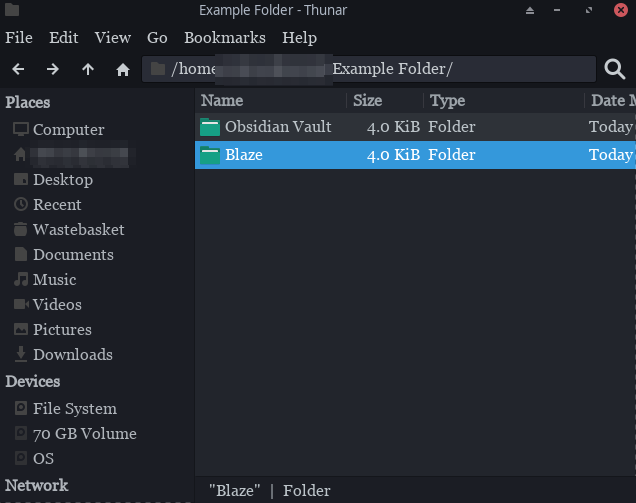
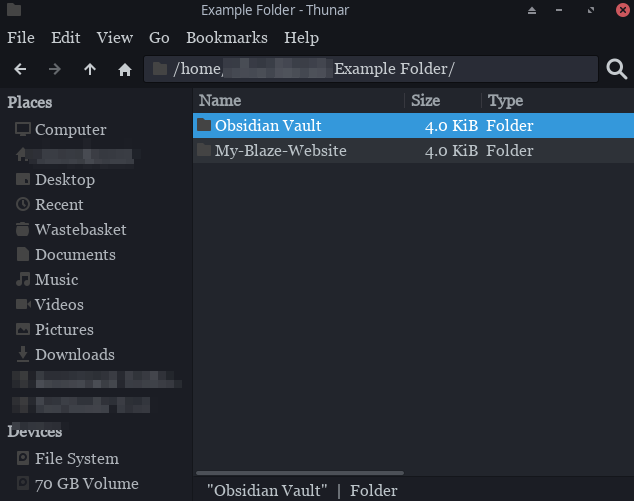
hi fred

diff --git a/blaze/themes/default/css/main.css b/blaze/themes/default/css/main.css
@@ -21,7 +21,7 @@ pre {
   overflow-x: scroll;
   background-color: var(--lightbackground) !important; 
   border-radius: 10px;
-  padding: 10px;
+  padding: 3px;
   overflow-x: scroll;
   max-width: 45vw;
 }

diff --git a/src/main.rs b/src/main.rs
@@ -4,7 +4,6 @@ use std::io::prelude::*;
 use std::path::Path;
 use std::collections::HashMap;
 use std::io::Write;
-
 use time::macros::date;
 use serde::Deserialize;
 use toml::Value;
@@ -12,8 +11,6 @@ use markdown::{to_html_with_options, Constructs};
 use regex::Regex;
 use toml;
 use std::fs::OpenOptions;
-
-
 
 #[derive(Deserialize, Debug)]
 struct Config {
@@ -161,6 +158,26 @@ fn format_path (path: &String) -> String {
     path
 }
 
+fn convert_links(input: &str) -> String {
+    let link_regex = Regex::new(r#"\[\[([^|\]]+)(?:\|([^]]+))?\]\]"#).unwrap();
+
+    let replaced = link_regex.replace_all(input, |caps: &regex::Captures| {
+        if let Some(url) = caps.get(1) {
+            if let Some(text) = caps.get(2) {
+                // Format: [[URL|text]] - convert to [text](URL)
+                format!("[{}]({})", text.as_str(), url.as_str())
+            } else {
+                // Format: [[URL]] - convert to [URL](URL)
+                format!("[{}]({})", url.as_str(), url.as_str())
+            }
+        } else {
+            // No match, return the original substring
+            caps.get(0).unwrap().as_str().to_string()
+        }
+    });
+
+    replaced.to_string()
+}
 
 fn compile_markdown (
     things: &Vec<FsThing>, cfg: &Config, theme: &String, 
@@ -206,6 +223,8 @@ fn compile_markdown (
                     //temporary solution, this replaces all instances of .md, not
                     //[something](somethingelse.md)
                     let mut content = content.clone().replace(".md)",")");
+                    content = convert_links(&content); // converts wikilinks to mdlinks
+
                     let old_content = &content.clone().replace(".md)",")");
 
                     let mut pathways: HashMap<String, String> = HashMap::new();

diff --git a/docs/setup/prerequisites.md b/docs/setup/prerequisites.md
@@ -5,23 +5,34 @@ description: What things you need to set up so that it plays nice with Blaze.
 
 Before you start using Blaze, you probably need to set up a few other things first.
 
-## Obsidian
-Configure your Obsidian vault settings as follows. The most important setting is absolute pathing and no wikilinks. [^1]
-![](../assets/obbysettings.png)
 ## Github
-1. Most importantly of all, you *need a Github account*.
-2. Once you have a Github account, you can go to the [Blaze github](https://github.com/EddieTheEd/Blaze) and click the `Code` and then clone it[^2], either through `HTTPS` or `SSH`. (It doesn't matter which.)
-![cloning](../cloning.png)
-3. Once it's downloaded, open your file explorer and find the repository's folder. It should like like this.[^3]
-![](../assets/foldering.png)
-4. Check that this is the right folder by opening it. It should look something like this.
-![](../assets/foldering2.png)
+1. Most importantly of all, you **need** a *Github account*. Here is mine. (totally)
+![](../assets/githublanding.png)
+2. Once you have a Github account, you can go to the [Blaze github](https://github.com/EddieTheEd/Blaze) and click the `Use this template` button. Then, select the `Create a new repository` option.
+![](../assets/usethistemplate.png)
+
+![](../assets/newrepo.png)
+
+
+3. Once you've done that, you should be looking at something like this. Fill out the fields as required. Note that private repositories mean that the source code can be accessed online, but this means *Github pages* (what Blaze uses to host the website) will **not** work. if you want to use a private repository, see [here](privaterepo.md).
+![|500](../assets/createnewrepo.png)
+
+4. Now you should be seeing the *Github repository* for your website. If you chose the `Public` option, anyone can access this URL. Now select the `Code` button and **clone** this new repository via `HTTPS` or `SSH`. [^1]
+
+5. Check that you have cloned it successfully by opening the repository folder. It should look something like this.
+![](../assets/foldering2-2.png)
+
 ## Adding content
+First, we should configure Obsidian[^2] , if you plan to use it.
+### Obsidian
+Configure your Obsidian vault settings as follows. The most important setting is absolute pathing and no wikilinks. [^3]
+![](../assets/obbysettings.png)
+
 ### I have an existing obsidian vault
-Say your files look something like this. (Your Obsidian vault doesn't literally have to be called `Obsidian Vault`)
-![](../assets/foldering2-1.png)
-All you need to do is simply move the `Obsidian Vault` folder into the `Blaze` folder. You can also delete the `docs` folder if you want, because that is for the [blaze.toomwn.xyz website](https://blaze.toomwn.xyz/).
-![](../assets/foldering%20number%20whatever.png)
+Say your files look something like this. (Your Obsidian vault doesn't literally have to be called `Obsidian Vault`)![](../assets/foldering2-1.png)
+
+All you need to do is simply move the `Obsidian Vault` folder into the repository folder. You can also delete the `docs` folder if you want, because that is for the [blaze.toomwn.xyz website](https://blaze.toomwn.xyz/).
+![](../assets/fldering.png)
 Next, you need to change the `blazeconfig.toml` file.
 Go to the `build` section and change the string of the `input` option to **the name of your Obsidian Vault**. In this example, I would have to change it to `'Obsidian Vault'.`
 
@@ -30,17 +41,16 @@ Go to the `build` section and change the string of the `input` option to **the n
 Now you're done! Open the new folder as a vault and your Obsidian stuff should be there.
 ### I want to make a new vault
 1. Go into the Blaze folder, as above.
-![foldering](../assets/foldering2.png)
+![](../assets/foldering2-2.png)
 2. Create a new folder, and name it to what you want your Obsidian vault to be called. For example, in the image below I have named mine `Obsidian Vault`.
-![foldering number whatever](../assets/foldering%20number%20whatever.png)
-3. Now open Obsidian[^4] and click the `Create` button, then navigate to the named folder inside the `Blaze` folder.
+![](../assets/fldering.png)
+3. Now open Obsidian and click the `Create` button, then navigate to the named folder inside the `Blaze` folder.
 ![](../assets/obsidian%20create.png)
 4. Next, you need to change the `blazeconfig.toml` file. Go to the `build` section and change the string of the `input` option to **the name of your Obsidian Vault**. For example, I would have to change it to `'Obsidian Vault'.`
 ![](../assets/rename%20input.png)
 
 Now you're done!
 
-[^1]: This is because Blaze creates links relative to the file.. Also, Blaze is designed to **only** read [markdown links](https://www.markdownguide.org/basic-syntax/), while Obsidian tends to default to [wikilinks](https://en.wikipedia.org/wiki/Help:Link).
-[^2]: If you are unaware how to clone repositories, see [here](https://docs.github.com/en/repositories/creating-and-managing-repositories/cloning-a-repository).
-[^3]: Note that this is [Thunar](https://docs.xfce.org/xfce/thunar/the-file-manager-window), Xfce's file manager. The font is [Georgia](https://en.wikipedia.org/wiki/Georgia_(typeface)).
-[^4]: If you haven't installed it already [go here](https://obsidian.md/).
+[^1]: If you are unaware how to clone repositories, see [here](https://docs.github.com/en/repositories/creating-and-managing-repositories/cloning-a-repository).
+[^2]: If you haven't installed it already [go here](https://obsidian.md/).
+[^3]: This is because Blaze creates links relative to the file.. ~~Also, Blaze is designed to **only** read [markdown links](https://www.markdownguide.org/basic-syntax/), while Obsidian tends to default to [wikilinks](https://en.wikipedia.org/wiki/Help:Link).~~ This may be fixed(maybe)

diff --git a/docs/features/links.md b/docs/features/links.md
@@ -1,0 +1,7 @@
+---
+title: Links
+descrption: All the link types that Blaze is compatible with.
+---
+[index, markdown](../index.md)
+[[../index]]
+[[../index|index, with line]]

diff --git a/docs/setup/privaterepo.md b/docs/setup/privaterepo.md
@@ -1,0 +1,4 @@
+---
+title: Private repositories
+description:
+---
